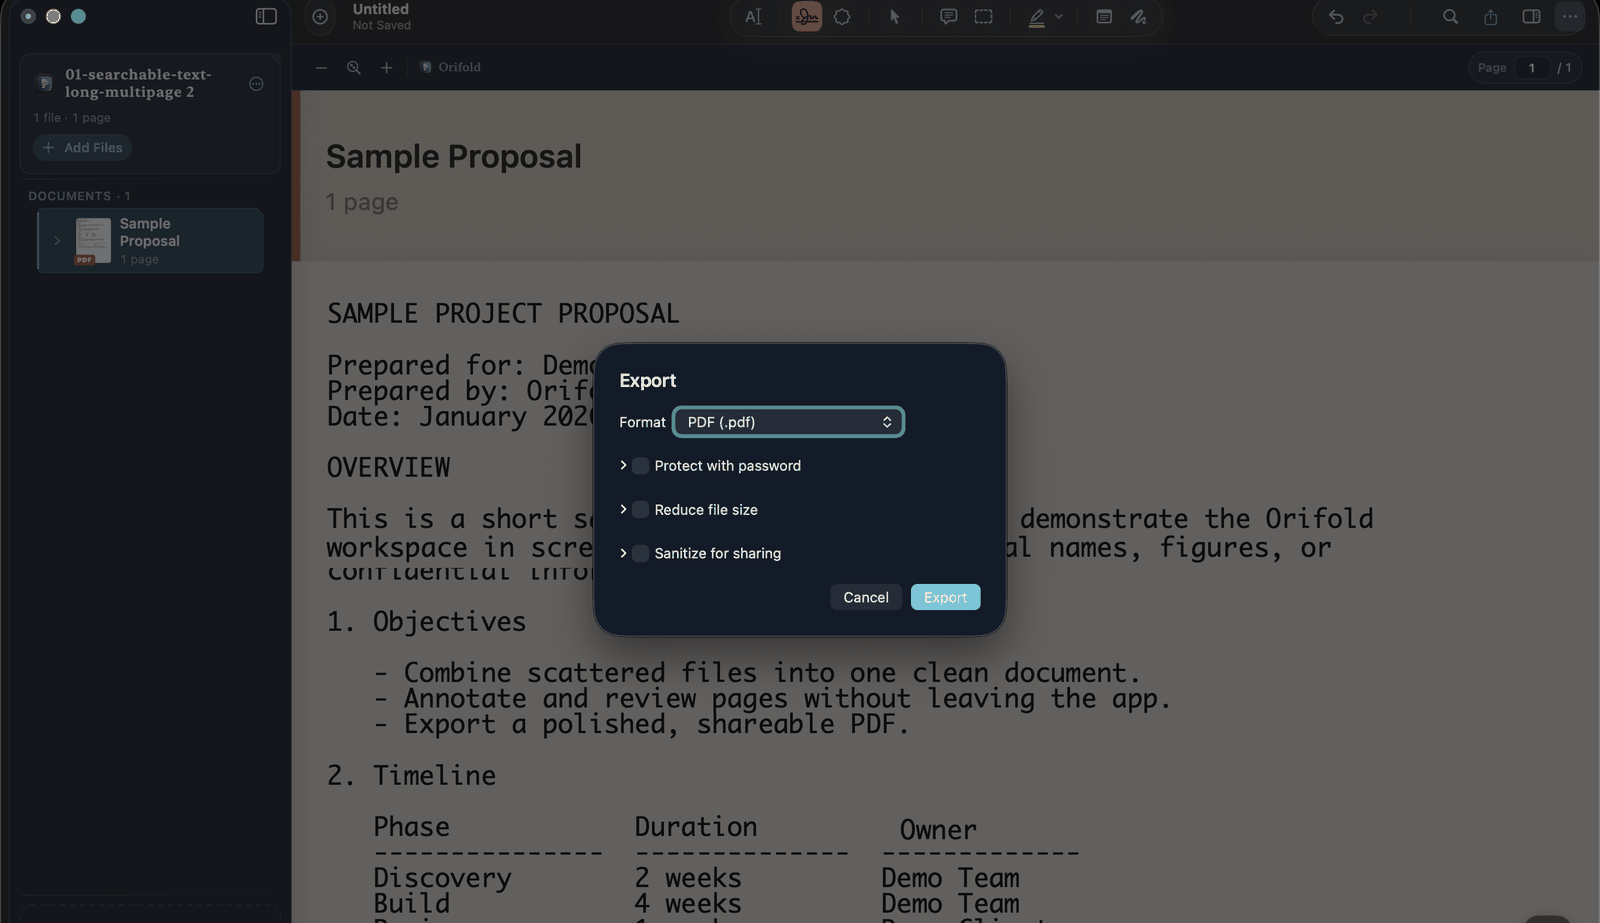
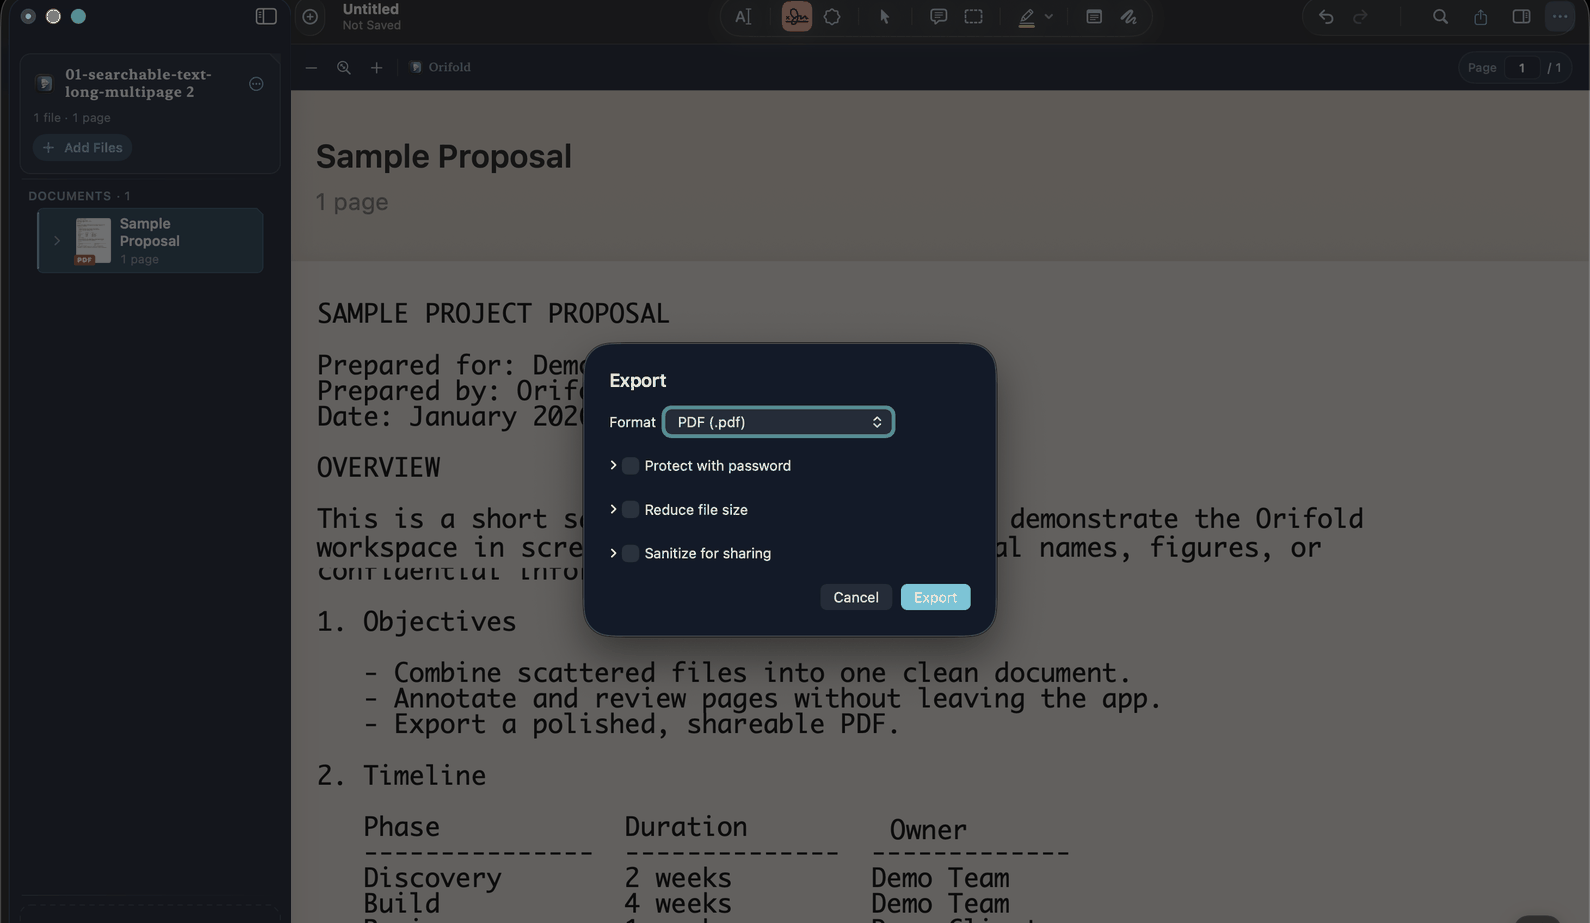
Landing page: 4-round bug/layout/content/formatting cleanup
Fixes from a 4-round find-and-fix pass (each round build-gated green):
- Crane freeze lands on the settled finished pose (4.2s), not mid-fold; same
  constant for the reduced-motion path.
- Release enhancer no longer clobbers the non-Mac 'View on GitHub' CTA with a
  .dmg href; dmg asset name read from site.json (no hardcoded literal).
- All figcaptions templated from {rel.version}; no hardcoded 0.8.1 in copy.
- landing.css: removed dead data-step=3 selector; copy-first order applies on
  mobile too; sticky stage clips overflow + scales its shot to fit; Illustration
  caption uses gray-2 for AA contrast.
- theme.css: scoped docs .of-card rules with :not(.landing *) so the landing's
  own card styling isn't overridden.
- release.ts trimmed; tokens paper-edge darkened for contrast.
- Captures: removed the trusted-timestamp UI from the signing shot (matches the
  gated non-timestamp copy) and cleaned the export shot's border.

diff --git a/docs-site/src/styles/landing.css b/docs-site/src/styles/landing.css
@@ -126,12 +126,12 @@ html {
 	align-items: center;
 	grid-template-columns: 1fr;
 }
+.two-col.copy-first .col-visual {
+	order: 2;
+}
 @media (min-width: 900px) {
 	.two-col {
 		grid-template-columns: 1fr 1fr;
-	}
-	.two-col.copy-first .col-visual {
-		order: 2;
 	}
 }
 
@@ -174,7 +174,7 @@ figure.vig figcaption {
 }
 figure.vig figcaption::before {
 	content: 'Illustration · ';
-	color: var(--of-text-3);
+	color: var(--of-text-2);
 }
 
 /* ---- nav ------------------------------------------------------------------ */
@@ -240,8 +240,10 @@ figure.vig figcaption::before {
 		background-color 0.12s ease;
 }
 .btn:hover {
-	text-decoration: none;
 	transform: translateY(-1px);
+}
+.landing a.btn:hover {
+	text-decoration: none;
 }
 .landing a.btn-primary {
 	background: var(--of-accent);
@@ -510,6 +512,22 @@ html.js .crease.is-revealed {
 	animation: corner-lift 7s ease-in-out 2 both;
 	transform-origin: top right;
 }
+/* No-JS: force the revealed end-state directly (is-revealed never gets added) */
+html:not(.js) .gather .scrap {
+	opacity: 0;
+}
+html:not(.js) .gather .stack-sheet {
+	opacity: 1;
+}
+html:not(.js) .gather .stack-sheet:nth-child(1) {
+	transform: none;
+}
+html:not(.js) .gather .stack-sheet:nth-child(2) {
+	transform: translate(6px, 6px) rotate(2deg);
+}
+html:not(.js) .gather .stack-sheet:nth-child(3) {
+	transform: translate(-5px, 10px) rotate(-2deg);
+}
 
 /* ---- V2 Crease Stage ------------------------------------------------------ */
 .stage-wrap {
@@ -518,9 +536,10 @@ html.js .crease.is-revealed {
 .stage {
 	position: sticky;
 	top: 16vh;
-	height: 62vh;
+	height: clamp(420px, 62vh, 900px);
 	display: grid;
 	place-items: center;
+	overflow: hidden;
 }
 .stage .scene {
 	position: absolute;
@@ -536,14 +555,46 @@ html.js .crease.is-revealed {
 		visibility 0.5s;
 }
 .stage[data-step='1'] .scene[data-scene='1'],
-.stage[data-step='2'] .scene[data-scene='2'],
-.stage[data-step='3'] .scene[data-scene='3'] {
+.stage[data-step='2'] .scene[data-scene='2'] {
 	opacity: 1;
 	visibility: visible;
 	transform: none;
 }
+/* short viewports: sticky top offset + min-clamped height can exceed the
+   viewport and clip the figure permanently (sticky elements don't shrink to
+   fit) — fall back to the readable static column, same as no-JS/reduced-motion.
+   Placed after the base/unconditional .stage .scene rule so this override
+   wins in source order despite matching specificity. */
+@media (max-height: 520px) {
+	.stage {
+		position: static;
+		height: auto;
+	}
+	.stage .scene {
+		position: static;
+		opacity: 1;
+		visibility: visible;
+		transform: none;
+		margin-bottom: 1.5rem;
+	}
+}
 .stage .scene figure.shot {
 	width: min(92%, 720px);
+	max-height: 100%;
+	display: flex;
+	flex-direction: column;
+}
+.stage .scene figure.shot .chrome {
+	min-height: 0;
+	display: flex;
+	flex-direction: column;
+}
+.stage .scene figure.shot img {
+	min-height: 0;
+	flex: 1 1 auto;
+	width: auto;
+	max-width: 100%;
+	object-fit: contain;
 }
 .stage-steps .step {
 	min-height: 70vh;
@@ -603,6 +654,9 @@ html.js .crease.is-revealed {
 	opacity: 0;
 	transition: opacity 0.15s ease;
 	pointer-events: none;
+}
+.landing a.of-card:hover {
+	text-decoration: none;
 }
 .of-card:hover {
 	transform: translateY(-2px);
@@ -696,6 +750,16 @@ html.js .crease.is-revealed {
 .seal.is-revealed .verify li:nth-child(1) { animation-delay: 0.9s; }
 .seal.is-revealed .verify li:nth-child(2) { animation-delay: 1.02s; }
 .seal.is-revealed .verify li:nth-child(3) { animation-delay: 1.14s; }
+/* No-JS: force the revealed end-state directly (is-revealed never gets added) */
+html:not(.js) .seal .hanko {
+	transform: scale(1);
+	opacity: 1;
+}
+html:not(.js) .seal .chain li,
+html:not(.js) .seal .verify li {
+	opacity: 1;
+	transform: none;
+}
 
 /* ---- V4 No Exit ----------------------------------------------------------- */
 .studio-vig {
@@ -722,8 +786,9 @@ html.js .crease.is-revealed {
 }
 .studio-vig .slip {
 	position: absolute;
-	font-size: 0.62rem;
-	color: var(--of-text-3);
+	font-size: 0.68rem;
+	font-weight: 600;
+	color: var(--of-text-2);
 	opacity: 0;
 	transform: translateX(0);
 }
@@ -954,13 +1019,6 @@ html.js .pet.pet-arrived .bubble {
 @keyframes bubble-pop {
 	from { opacity: 0; transform: scale(0.92); }
 	to { opacity: 1; transform: scale(1); }
-}
-@keyframes tancho-set {
-	from { transform: scale(0.6); opacity: 0; }
-	to { transform: scale(1); opacity: 1; }
-}
-@keyframes copy-flash {
-	0%, 100% { opacity: 1; }
 }
 
 /* ---- reduced-motion & no-JS ---------------------------------------------- */

diff --git a/docs-site/src/styles/theme.css b/docs-site/src/styles/theme.css
@@ -68,8 +68,11 @@ starlight-nav a[aria-current='page'],
 	outline-offset: 2px;
 }
 
-/* ---- Folded-corner motif (cards, callouts, figures) ---- */
-.of-card {
+/* ---- Folded-corner motif (cards, callouts, figures) ----
+   Scoped to `:not(.landing *)` so these Starlight-docs rules never collide
+   with the landing page's own `.of-card` feature-card selector in
+   landing.css (same class name, different component, different file). */
+:not(.landing *).of-card {
 	position: relative;
 	background: var(--of-card);
 	border: 1px solid var(--of-separator);
@@ -83,7 +86,7 @@ starlight-nav a[aria-current='page'],
 		transform 120ms ease;
 }
 
-.of-card::after {
+:not(.landing *).of-card::after {
 	content: '';
 	position: absolute;
 	top: 0;
@@ -95,12 +98,12 @@ starlight-nav a[aria-current='page'],
 	pointer-events: none;
 }
 
-.of-card:hover {
+:not(.landing *).of-card:hover {
 	border-color: rgba(79, 195, 232, 0.4);
 	transform: translateY(-1px);
 }
 
-:root[data-theme='light'] .of-card {
+:root[data-theme='light'] :not(.landing *).of-card {
 	box-shadow: 0 1px 3px rgba(19, 31, 51, 0.06);
 }
 
@@ -111,7 +114,7 @@ starlight-nav a[aria-current='page'],
 	margin-block: 1.5rem;
 }
 
-.of-card h3 {
+:not(.landing *).of-card h3 {
 	margin-top: 0;
 	font-size: 1rem;
 }
@@ -126,7 +129,7 @@ starlight-nav a[aria-current='page'],
 	margin: 0;
 }
 
-.of-card a.of-card-link {
+:not(.landing *).of-card a.of-card-link {
 	position: absolute;
 	inset: 0;
 	border-radius: inherit;

diff --git a/docs-site/src/lib/release.ts b/docs-site/src/lib/release.ts
@@ -12,7 +12,7 @@
  *   2. latest release exists but no dmg yet  → zip button + `dmgMissing` warning
  *      (this is today's reality: releases are zip-only until the PR-1 pipeline
  *      ships Orifold.dmg). The stable dmg URL is still returned optimistically.
- *   3. API unreachable / rate-limited         → LAST_KNOWN_GOOD, `stale: true`.
+ *   3. API unreachable / rate-limited         → LAST_KNOWN_GOOD fallback values.
  */
 
 import site from '../data/site.json';
@@ -42,8 +42,6 @@ export interface ReleaseInfo {
 	releaseUrl: string;
 	/** URL that always lists every release. */
 	allReleasesUrl: string;
-	/** True when the API could not be reached and LAST_KNOWN_GOOD was used. */
-	stale: boolean;
 }
 
 /** Bump this whenever a release ships, so the offline build stays truthful. */
@@ -82,7 +80,6 @@ function fallback(reason: string): ReleaseInfo {
 		zipUrl: stableUrl(ZIP),
 		releaseUrl: `https://github.com/${REPO}/releases/tag/${LAST_KNOWN_GOOD.tag}`,
 		allReleasesUrl: `https://github.com/${REPO}/releases`,
-		stale: reason !== '',
 	};
 }
 
@@ -122,6 +119,5 @@ export async function getRelease(): Promise<ReleaseInfo> {
 		zipUrl: stableUrl(ZIP),
 		releaseUrl: data.html_url ?? `https://github.com/${REPO}/releases/tag/${tag}`,
 		allReleasesUrl: `https://github.com/${REPO}/releases`,
-		stale: false,
 	};
 }

diff --git a/docs-site/src/styles/tokens.css b/docs-site/src/styles/tokens.css
@@ -23,7 +23,7 @@
 	   sanctioned amendment). Every paper surface carries a visible ≥3:1 edge. */
 	--of-paper: #f1e7cf;
 	--of-paper-ink: #2b2417;
-	--of-paper-edge: #cabf9c;
+	--of-paper-edge: #867950;
 }
 
 :root[data-theme='light'] {